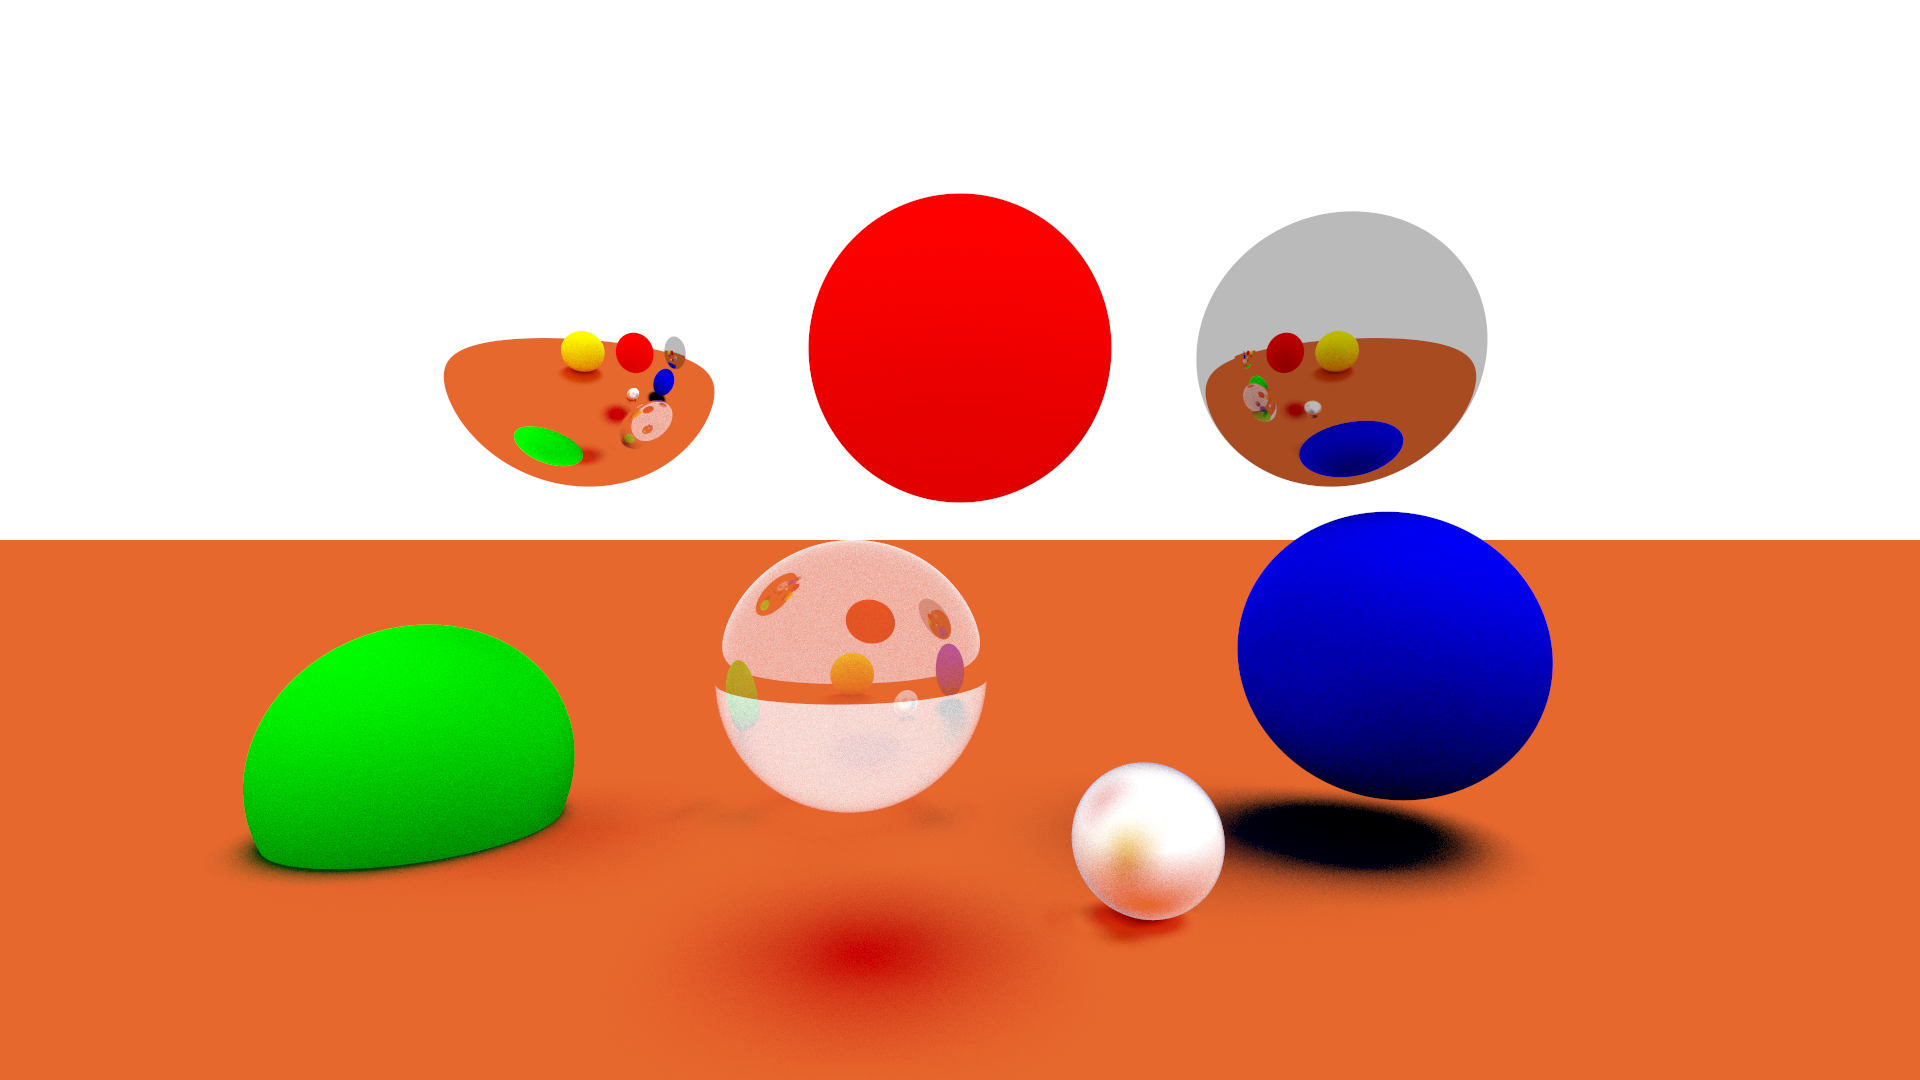
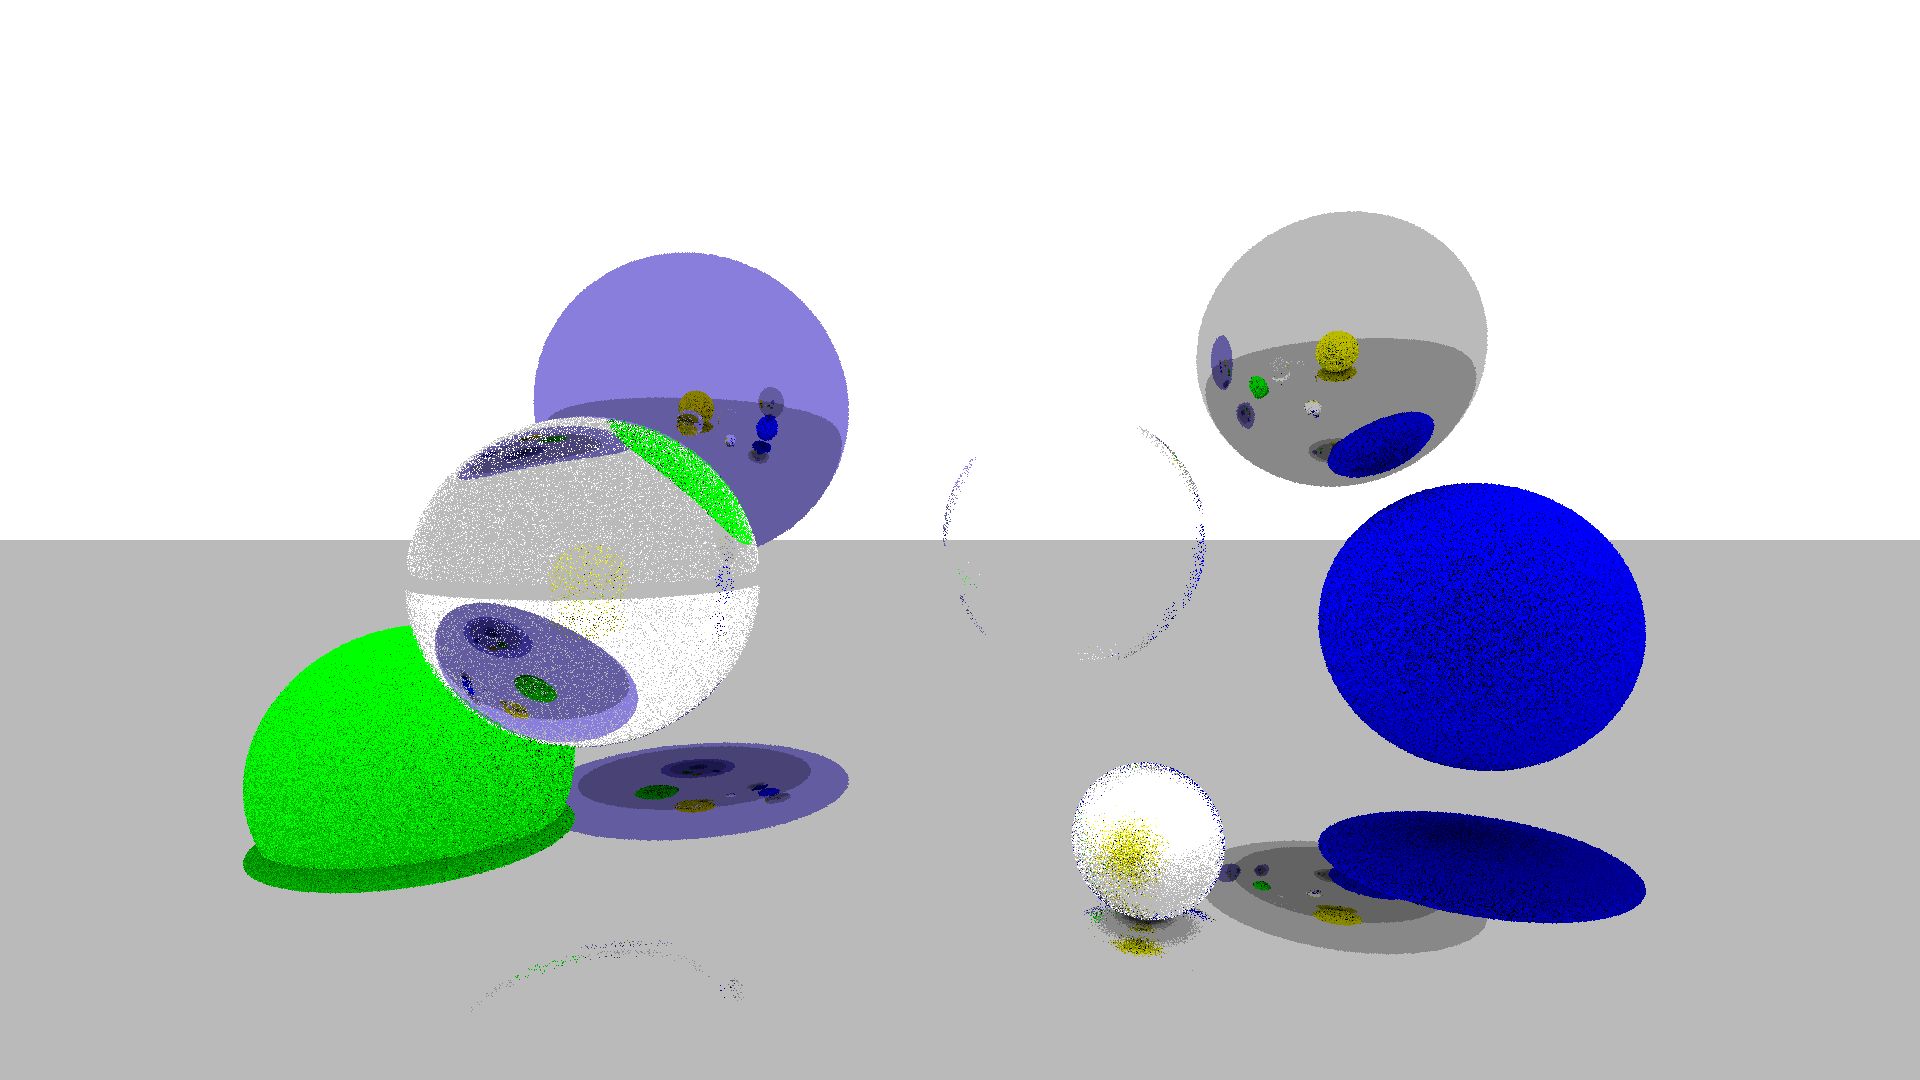
update

diff --git a/cgg-abgaben-gitHub/src/engel865650/a06/Main.java b/cgg-abgaben-gitHub/src/engel865650/a06/Main.java
@@ -132,20 +132,21 @@ public class Main {
 		obscura = new CObscura(Math.PI / 3, image.getWidth(), image.getHeight());
 		//
 		Plane plane = new Plane(new Vec3(0.0, -1.0, 0.0), new Vec3(0.0, 1.8, 0.0),
-				new PolishedMetalMaterial(new Vec3(Random.random(), Random.random(), Random.random()), 0.05));
+				new PolishedMetalMaterial(Vec3.gray, 0.0));
 		//
 		Background background = new Background(new BackgroundMaterial());
 		//
-		Shape blueGlobe = new Globe(new Vec3(1.5, -0.4, -3.3), 0.5, new DiffuseMaterial(Vec3.blue));
+		Shape blueGlobe = new Globe(new Vec3(1.8, -0.3, -3.3), 0.5, new DiffuseMaterial(Vec3.blue));
 		Shape greenGlobe = new Globe(new Vec3(-1.9, -0.8, -3.3), 0.5, new DiffuseMaterial(Vec3.green));
-		Shape redGlobe = new Globe(new Vec3(0.0, 0.5, -2.5), 0.4, new DiffuseMaterial(Vec3.red));
 		//
-		Shape glassGlobe = new Globe(new Vec3(-0.4, -0.5, -3.5), 0.5, new GlassMaterial(4.0));
+		Shape glassGlobe = new Globe(new Vec3(-0.9, -0.1, -2.3), 0.4, new GlassMaterial(2.0));
+		Shape glass = new Globe(new Vec3(0.3, 0.0, -2.5), 0.35, new GlassMaterial(1.0));
 		//
 		Shape yellowGlobe = new Globe(new Vec3(0.0, 0.0, 0.4), 1.1, new DiffuseMaterial(new Vec3(1, 1, 0)));
 		//
 		Shape glassGlobeCenter = new Globe(new Vec3(1.4, 0.7, -3.5), 0.5, new PolishedMetalMaterial(Vec3.gray, 0.0));
-		Shape glassGlobeCenter2 = new Globe(new Vec3(-1.4, 0.7, -3.5), 0.5, new PolishedMetalMaterial());
+		Shape glassGlobeCenter2 = new Globe(new Vec3(-1.4, 0.7, -5.0), 0.8,
+				new PolishedMetalMaterial(new Vec3(Random.random(), Random.random(), Random.random()), 0.0));
 		//
 		Shape polishedGlobe = new Globe(new Vec3(0.5, -0.8, -2.5), 0.2, new PolishedMetalMaterial(Vec3.white, 1.5));
 		//
@@ -157,17 +158,17 @@ public class Main {
 		//
 		shapes.add(blueGlobe);
 		shapes.add(greenGlobe);
-		shapes.add(redGlobe);
 		shapes.add(yellowGlobe);
 		//
 		shapes.add(glassGlobe);
+		shapes.add(glass);
 		shapes.add(glassGlobeCenter);
 		shapes.add(glassGlobeCenter2);
 		//
 		shapes.add(polishedGlobe);
 		//
 		Group group = new Group(shapes);
-		raytrace2(obscura, group, 10);
+		raytrace2(obscura, group, 1);
 	}
 
 	public static Image raytrace2(CObscura obscura, Group group, double sampler) {
@@ -181,7 +182,7 @@ public class Main {
 						double xs = x + (xi + rx) / sampler;
 						double ys = y + (yi + ry) / sampler;
 						Ray currentRay = obscura.generate(xs, ys);
-						shade = calculateRadiance(group, currentRay, 3.5);
+						shade = calculateRadiance(group, currentRay, 3.8);
 						background = Vec3.divide(shade, sampler * sampler);
 						color = Vec3.add(color, background);
 					}
